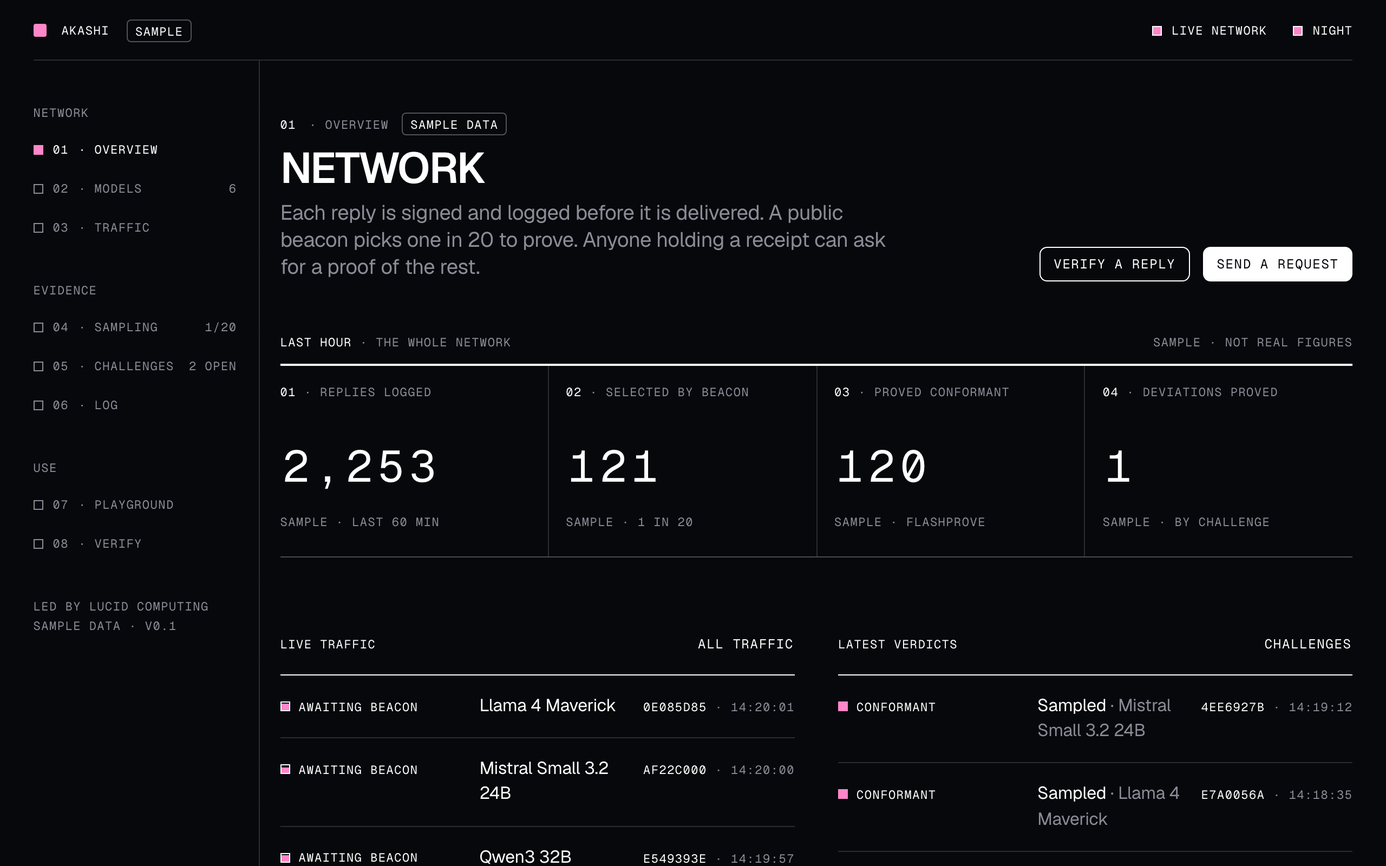
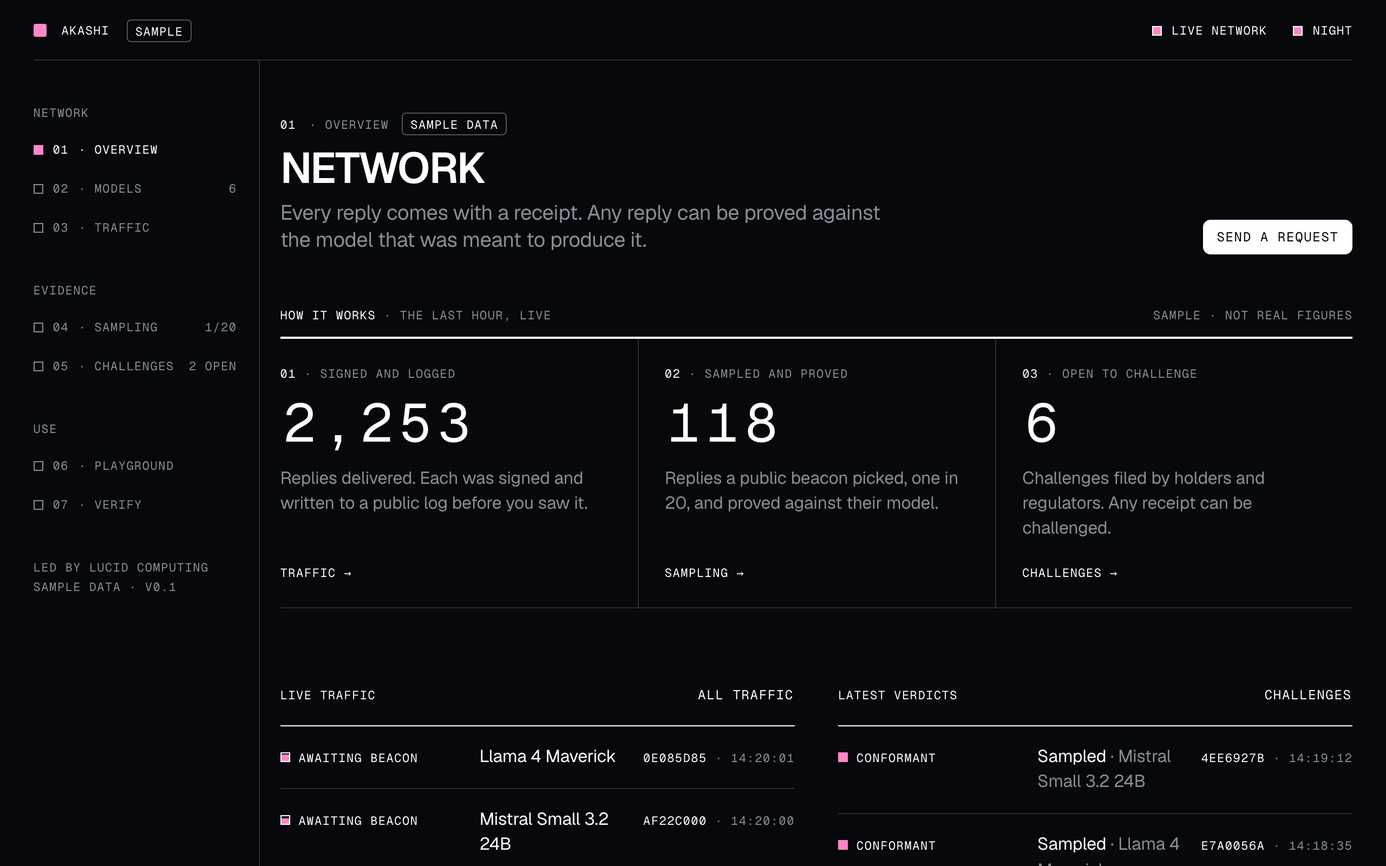
Refine the web preview: one story, fewer screens, less noise (#110)
The overview now tells how it works in three live steps (signed and
logged, sampled and proved, open to challenge), each linking to the
screen that explains it, with live traffic and verdicts below. The
separate log screen is folded into one live line on Traffic. Traffic
drops to five columns and 30 rows at a time, the request record keeps
four fields, sampling keeps three facts and recomputes the latest
selected reply, and Verify opens with a bundle ready. The README
screenshots are retaken to match.

diff --git a/web/app/index.html b/web/app/index.html
@@ -44,34 +44,32 @@
       <ul>
         <li><a href="#sampling" data-route="sampling"><i class="sq" aria-hidden="true"></i><b>04</b> · Sampling<span class="n">1/20</span></a></li>
         <li><a href="#challenges" data-route="challenges"><i class="sq" aria-hidden="true"></i><b>05</b> · Challenges<span class="n" id="nav-open"></span></a></li>
-        <li><a href="#log" data-route="log"><i class="sq" aria-hidden="true"></i><b>06</b> · Log</a></li>
       </ul>
       <h2>Use</h2>
       <ul>
-        <li><a href="#playground" data-route="playground"><i class="sq" aria-hidden="true"></i><b>07</b> · Playground</a></li>
-        <li><a href="#verify" data-route="verify"><i class="sq" aria-hidden="true"></i><b>08</b> · Verify</a></li>
+        <li><a href="#playground" data-route="playground"><i class="sq" aria-hidden="true"></i><b>06</b> · Playground</a></li>
+        <li><a href="#verify" data-route="verify"><i class="sq" aria-hidden="true"></i><b>07</b> · Verify</a></li>
       </ul>
       <p class="app-foot"><span class="led-by">Led by <b>Lucid Computing</b></span>Sample data · v0.1</p>
     </nav>
 
     <main class="app-main" id="main" tabindex="-1">
 
-      <!-- 01 Overview -->
+      <!-- 01 Overview: the mechanism in three steps, each with its live number, then what is happening now -->
       <section data-screen="overview" aria-labelledby="t-overview" hidden>
         <header class="screen-head">
           <p class="mono"><b>01</b> · Overview <span class="tag">Sample data</span><span class="state" data-state="pending" data-loading hidden>Loading</span></p>
           <h1 class="tt" id="t-overview">Network</h1>
-          <p class="sent">Each reply is signed and logged before it is delivered. A public beacon picks one in 20 to prove. Anyone holding a receipt can ask for a proof of the rest.</p>
-          <div class="actions"><a class="btn small" href="#verify">Verify a reply</a><a class="btn small solid" href="#playground">Send a request</a></div>
+          <p class="sent">Every reply comes with a receipt. Any reply can be proved against the model that was meant to produce it.</p>
+          <div class="actions"><a class="btn small solid" href="#playground">Send a request</a></div>
         </header>
         <div class="block">
-          <div class="block-head"><p class="mono"><b>Last hour</b> · the whole network</p><p class="mono">Sample · not real figures</p></div>
-          <div class="facts">
-            <div class="keyfact"><p class="mono"><b>01</b> · Replies logged</p><p class="val" data-value data-k="logged">0</p><p class="mono">Sample · last 60 min</p></div>
-            <div class="keyfact"><p class="mono"><b>02</b> · Selected by beacon</p><p class="val" data-value data-k="selected">0</p><p class="mono">Sample · 1 in 20</p></div>
-            <div class="keyfact"><p class="mono"><b>03</b> · Proved conformant</p><p class="val" data-value data-k="proved">0</p><p class="mono">Sample · FlashProve</p></div>
-            <div class="keyfact"><p class="mono"><b>04</b> · Deviations proved</p><p class="val" data-value data-k="deviations">0</p><p class="mono">Sample · by challenge</p></div>
-          </div>
+          <div class="block-head"><h2 class="mono"><b>How it works</b> · the last hour, live</h2><p class="mono">Sample · not real figures</p></div>
+          <ol class="steps">
+            <li><a href="#traffic"><p class="mono"><b>01</b> · Signed and logged</p><p class="val" data-value data-k="logged">0</p><p class="w">Replies delivered. Each was signed and written to a public log before you saw it.</p><span class="mono go">Traffic <span aria-hidden="true">&#8594;</span></span></a></li>
+            <li><a href="#sampling"><p class="mono"><b>02</b> · Sampled and proved</p><p class="val" data-value data-k="proved">0</p><p class="w">Replies a public beacon picked, one in 20, and proved against their model.</p><span class="mono go">Sampling <span aria-hidden="true">&#8594;</span></span></a></li>
+            <li><a href="#challenges"><p class="mono"><b>03</b> · Open to challenge</p><p class="val" data-value data-k="challenged">0</p><p class="w">Challenges filed by holders and regulators. Any receipt can be challenged.</p><span class="mono go">Challenges <span aria-hidden="true">&#8594;</span></span></a></li>
+          </ol>
         </div>
         <div class="blocks two">
           <div class="block">
@@ -82,11 +80,6 @@
             <div class="block-head"><h2 class="mono"><b>Latest verdicts</b></h2><a class="btn quiet small" href="#challenges">Challenges</a></div>
             <ul class="rows" id="ov-verdicts"></ul>
           </div>
-        </div>
-        <div class="block">
-          <div class="block-head"><h2 class="mono"><b>Models</b> · by traffic</h2><a class="btn quiet small" href="#models">All models</a></div>
-          <div class="scroll-x"><table class="record rows-link" id="ov-models"><caption class="vh">Models by traffic, sample data</caption>
-            <thead><tr><th scope="col">Model</th><th scope="col" class="ak-r">Replies</th><th scope="col" class="ak-r wide-only">Proved</th><th scope="col">Record</th></tr></thead><tbody></tbody></table></div>
         </div>
       </section>
 
@@ -135,7 +128,8 @@
         <header class="screen-head">
           <p class="mono"><b>03</b> · Traffic <span class="tag">Sample data</span></p>
           <h1 class="tt" id="t-traffic">Traffic</h1>
-          <p class="sent">Every reply the network delivered, as the log records it. Prompts and replies are never public: only their commitments are.</p>
+          <p class="sent">Every reply the network delivered, as the public log records it. Prompts and replies stay private: only their commitments are public.</p>
+          <p class="mono log-line"><i class="sq" aria-hidden="true"></i><b>Log</b> · <span id="log-size">0</span> leaves · head signed <span id="log-head">00:00:00</span> UTC · 3 of 3 monitors agree</p>
         </header>
         <div class="block">
           <div class="toolbar">
@@ -153,8 +147,8 @@
             <input class="input small search" id="t-q" type="search" placeholder="Request, model or operator" autocomplete="off" spellcheck="false">
           </div>
           <div class="scroll-x"><table class="record rows-link" id="traffic-t"><caption class="vh">Traffic, sample data</caption>
-            <thead><tr><th scope="col">Request</th><th scope="col">Model</th><th scope="col" class="wide-only">Operator</th><th scope="col" class="ak-r">Tokens</th><th scope="col" class="ak-r">Delivered, UTC</th><th scope="col" class="ak-r wide-only">Beacon round</th><th scope="col">State</th></tr></thead><tbody></tbody></table></div>
-          <div class="ak-more"><button class="btn small" type="button" id="t-more">Show 60 more</button></div>
+            <thead><tr><th scope="col">Request</th><th scope="col">Model</th><th scope="col" class="wide-only">Operator</th><th scope="col" class="ak-r">Delivered, UTC</th><th scope="col">State</th></tr></thead><tbody></tbody></table></div>
+          <div class="ak-more"><button class="btn small" type="button" id="t-more">Show more</button></div>
         </div>
       </section>
 
@@ -189,14 +183,13 @@
         <header class="screen-head">
           <p class="mono"><b>04</b> · Sampling <span class="tag">Sample data</span></p>
           <h1 class="tt" id="t-sampling">Sampling</h1>
-          <p class="sent">A receipt fixes a beacon round that has not happened yet. When the round is published, anyone can recompute which replies it selected. The operator could not know in advance.</p>
+          <p class="sent">Each receipt names a beacon round that has not happened yet. When it does, anyone can recompute which replies it picked. The operator cannot know in advance.</p>
         </header>
         <div class="block">
-          <div class="facts">
+          <div class="facts" style="--facts: 3">
             <div class="keyfact"><p class="mono"><b>01</b> · Rate</p><p class="val">1/20</p><p class="mono">Descriptor · live rate</p></div>
-            <div class="keyfact"><p class="mono"><b>02</b> · Replies decided</p><p class="val" data-k="decided">0</p><p class="mono">Sample · last 60 min</p></div>
-            <div class="keyfact"><p class="mono"><b>03</b> · Selected</p><p class="val" data-k="selected">0</p><p class="mono" data-k="share">Sample</p></div>
-            <div class="keyfact"><p class="mono"><b>04</b> · Proved</p><p class="val" data-k="provedOf">0</p><p class="mono">Sample · of selected</p></div>
+            <div class="keyfact"><p class="mono"><b>02</b> · Selected</p><p class="val" data-k="selected">0</p><p class="mono" data-k="share">Sample</p></div>
+            <div class="keyfact"><p class="mono"><b>03</b> · Proved</p><p class="val" data-k="provedOf">0</p><p class="mono">Sample · of selected</p></div>
           </div>
         </div>
         <div class="block">
@@ -207,23 +200,16 @@
           </figure>
         </div>
         <div class="block">
-          <div class="block-head"><h2 class="mono"><b>Recompute it</b> · the latest decided reply</h2><a class="btn quiet small" id="rc-open" href="#traffic">Open the request</a></div>
+          <div class="block-head"><h2 class="mono"><b>Recompute it</b> · the latest selected reply</h2><a class="btn quiet small" id="rc-open" href="#traffic">Open the request</a></div>
           <ol class="receipt" id="recompute"></ol>
         </div>
-        <div class="blocks two">
-          <div class="block">
-            <div class="block-head"><h2 class="mono"><b>By minute</b></h2><p class="mono">Sample · UTC</p></div>
-            <div class="scroll-x"><table class="record keep" id="windows"><caption class="vh">Selection by minute, sample data</caption>
-              <thead><tr><th scope="col">Minute</th><th scope="col" class="ak-r">Replies</th><th scope="col" class="ak-r">Selected</th><th scope="col" class="ak-r">Proved</th></tr></thead><tbody></tbody></table></div>
-          </div>
-          <div class="block">
-            <div class="block-head"><h2 class="mono"><b>What the rate buys</b></h2><p class="mono">Computed from the sample</p></div>
+        <div class="block">
+          <div class="block-head"><h2 class="mono"><b>What one in 20 buys</b></h2><p class="mono">Computed from the rate</p></div>
             <div class="ak-odds">
               <p class="sent" id="odds-sent"></p>
               <p class="val" id="odds-val">0%</p>
               <label class="ak-range"><span class="mono">Replies an operator changes</span><input type="range" id="odds-n" min="1" max="200" value="20" aria-describedby="odds-sent"><b class="mono" id="odds-n-v">20</b></label>
             </div>
-          </div>
         </div>
       </section>
 
@@ -336,36 +322,11 @@
         </div>
       </section>
 
-      <!-- 06 Log -->
-      <section data-screen="log" aria-labelledby="t-log" hidden>
-        <header class="screen-head">
-          <p class="mono"><b>06</b> · Log <span class="tag">Sample data</span></p>
-          <h1 class="tt" id="t-log">The log</h1>
-          <p class="sent">Every reply is a leaf before it is delivered. Monitors check that each signed head extends the last, so no reply can be dropped or rewritten unseen.</p>
-        </header>
-        <div class="block">
-          <div class="facts">
-            <div class="keyfact"><p class="mono"><b>01</b> · Tree size</p><p class="val num" data-k="size">0</p><p class="mono">Sample · leaves</p></div>
-            <div class="keyfact"><p class="mono"><b>02</b> · Latest head</p><p class="val num" data-k="age">0 s</p><p class="mono">Sample · age</p></div>
-            <div class="keyfact"><p class="mono"><b>03</b> · Monitors</p><p class="val">3/3</p><p class="mono">Sample · agree</p></div>
-            <div class="keyfact"><p class="mono"><b>04</b> · Log key</p><p class="val">LOG 1</p><p class="mono">Sample · Ed25519</p></div>
-          </div>
-        </div>
-        <div class="block">
-          <div class="block-head"><h2 class="mono"><b>Signed tree heads</b></h2><p class="mono">One a minute and after each write</p></div>
-          <div class="scroll-x"><table class="record" id="sth-t"><caption class="vh">Signed tree heads, sample data</caption>
-            <thead><tr><th scope="col" class="ak-r">Tree size</th><th scope="col">Root hash</th><th scope="col" class="ak-r">Signed, UTC</th><th scope="col" class="wide-only">Signature</th><th scope="col">Monitors</th></tr></thead><tbody></tbody></table></div>
-        </div>
-        <div class="block">
-          <div class="block-head"><h2 class="mono"><b>Monitors</b> · run by others</h2></div>
-          <ul class="rows" id="monitors"></ul>
-        </div>
-      </section>
 
-      <!-- 07 Playground -->
+      <!-- 06 Playground -->
       <section data-screen="playground" aria-labelledby="t-playground" hidden>
         <header class="screen-head">
-          <p class="mono"><b>07</b> · Playground <span class="tag">Sample data</span></p>
+          <p class="mono"><b>06</b> · Playground <span class="tag">Sample data</span></p>
           <h1 class="tt" id="t-playground">Playground</h1>
           <p class="sent">Send a chat as you would to any OpenAI-compatible API. The reply comes back with a receipt you hold. In this preview no model runs: replies are sample text.</p>
         </header>
@@ -412,10 +373,10 @@
         </div>
       </section>
 
-      <!-- 08 Verify -->
+      <!-- 07 Verify -->
       <section data-screen="verify" aria-labelledby="t-verify" hidden>
         <header class="screen-head">
-          <p class="mono"><b>08</b> · Verify <span class="tag">Sample data</span></p>
+          <p class="mono"><b>07</b> · Verify <span class="tag">Sample data</span></p>
           <h1 class="tt" id="t-verify">Verify offline</h1>
           <p class="sent">Check a receipt and its proof on your own machine, without the model weights and without asking the operator. In this preview the checks are simulated.</p>
         </header>

diff --git a/web/app/akashi.js b/web/app/akashi.js
@@ -83,28 +83,16 @@
   const verdictRow = (v) => v.r
     ? `<li><a class="row" href="${v.c ? '#challenge/' + v.c.id : '#request/' + v.r.short}">${reqStateHTML(v.r)}<span class="row-t">${esc(v.how)} <span class="muted">· ${esc(shortModel(v.r.model))}</span></span><span class="mono"><b>${v.r.short}</b> · ${hms(v.t)}</span></a></li>`
     : `<li><a class="row" href="#challenge/${v.c.id}">${stateHTML('idle', 'Refused')}<span class="row-t">${esc(v.how)} <span class="muted">· invalid receipt</span></span><span class="mono"><b>${v.c.ref}</b> · ${hms(v.t)}</span></a></li>`;
-  function modelRecord(m, t = S.now()) {
-    if (m.rebuilding) return stateHTML('pending', 'Rebuilding');
-    const dev = S.requests.some((r) => r.model === m.id && r.at <= t && S.stateOf(r, t) === 'deviation');
-    return dev ? stateHTML('failed', 'Deviation proved') : stateHTML('verified', 'All conformant');
-  }
   function overview(screen, fresh) {
-    const t = S.now(), st = hourStats(t);
-    const vals = [N(st.logged), N(st.selected), N(st.proved), N(st.deviations)];
+    const t = S.now(), st = hourStats(t), chl = S.challenges.filter((c) => c.at <= t && c.at > t - HOUR).length;
+    const vals = [N(st.logged), N(st.selProved), N(chl)];
     if (!loaded.has('overview')) {
       loaded.add('overview');
       const l = App.loading(screen); setTimeout(() => l.done(vals), 500);
-    } else ['logged', 'selected', 'proved', 'deviations'].forEach((k, i) => setVal(screen, k, vals[i]));
-    const live = visible(t).slice(-6).reverse();
-    $('#ov-live').innerHTML = live.map(liveRow).join('');
+    } else ['logged', 'proved', 'challenged'].forEach((k, i) => setVal(screen, k, vals[i]));
+    $('#ov-live').innerHTML = visible(t).slice(-5).reverse().map(liveRow).join('');
     if (fresh) $$('#ov-live .row .mono b').slice(0, fresh).forEach((el) => T.cipherText(el, el.textContent, { out: false }));
-    $('#ov-verdicts').innerHTML = verdicts(t).slice(0, 6).map(verdictRow).join('');
-    $('#ov-models tbody').innerHTML = S.MODELS.filter((m) => !m.rebuilding).map((m) => {
-      const rs = S.requests.filter((r) => r.model === m.id && r.at <= t && r.at > t - HOUR);
-      return `<tr data-href="#model/${m.id}"><th scope="row"><a href="#model/${m.id}">${esc(m.name)}</a></th>
-        <td class="n" data-label="Replies">${N(rs.length)}</td><td class="n wide-only" data-label="Proved">${N(rs.filter((r) => S.stateOf(r, t) === 'conformant').length)}</td>
-        <td class="s" data-label="Record">${modelRecord(m, t)}</td></tr>`;
-    }).join('');
+    $('#ov-verdicts').innerHTML = verdicts(t).slice(0, 5).map(verdictRow).join('');
   }
 
   /* ---------- 02 models ---------- */
@@ -160,7 +148,7 @@
   document.getElementById('model-copy').addEventListener('click', (e) => App.copy($('#model-code').textContent, e.currentTarget));
 
   /* ---------- 03 traffic ---------- */
-  const tStep = matchMedia('(max-width: 700px)').matches ? 20 : 60;   // stacked rows on a phone: fewer at a time
+  const tStep = matchMedia('(max-width: 700px)').matches ? 15 : 30;   // stacked rows on a phone: fewer at a time
   let tFilter = 'all', tQuery = '', tLimit = tStep;
   const tMatch = (r) => {
     const s = S.stateOf(r);
@@ -174,20 +162,24 @@
     <th scope="row"><a href="#request/${r.short}">${r.short}</a></th>
     <td class="what" data-label="Model">${esc(shortModel(r.model))}</td>
     <td class="v wide-only" data-label="Operator">${S.op(r.op).name.replace('Operator ', 'OP ')}</td>
-    <td class="n" data-label="Tokens">${N(r.pt + r.rt)}</td>
     <td class="n" data-label="Delivered, UTC">${hms(r.at)}</td>
-    <td class="n wide-only" data-label="Beacon round">${N(r.round)}</td>
     <td class="s">${reqStateHTML(r)}</td></tr>`;
   function traffic(screen, modelId) {
     if (modelId && S.model(modelId)) { tQuery = modelId; $('#t-q').value = modelId; }
     const all = visible().filter(tMatch).reverse(), list = all.slice(0, tLimit);
     $('#traffic-t tbody').innerHTML = list.length ? list.map((r) => trafficRow(r)).join('')
-      : `<tr><td class="none" colspan="7">No reply matches. <button class="btn quiet small" type="button" id="t-clear">Show all traffic</button></td></tr>`;
+      : `<tr><td class="none" colspan="5">No reply matches. <button class="btn quiet small" type="button" id="t-clear">Show all traffic</button></td></tr>`;
     $('#t-count').textContent = `${N(list.length)} of ${N(all.length)} · sample`;
     $('#t-more').hidden = all.length <= tLimit;
+    logLine();
     const clear = $('#t-clear'); if (clear) clear.onclick = () => { tQuery = ''; $('#t-q').value = ''; setTFilter('all'); };
   }
+  function logLine() {
+    const size = $('#log-size'), head = $('#log-head'); if (!size) return;
+    size.textContent = N(S.treeSize()); head.textContent = hms(Math.floor(S.now() / 60e3) * 60e3);
+  }
   function trafficTick(added) {
+    logLine();
     const rows = added.filter(tMatch).reverse();
     if (!rows.length) return;
     const tb = $('#traffic-t tbody'); if ($('td.none', tb)) { traffic(); return; }
@@ -263,13 +255,9 @@
     }
     $('#req-kv').innerHTML = [
       ['Request ID', `<span class="hash">${r.id}</span>`],
-      ['Served at', `<span class="hash">${iso(r.at)}</span>`],
-      ['Endpoint', `<span class="hash">${m.id}-int-${m.commitment.slice(0, 8)}</span>`],
       ['Leaf hash', copyHTML(r.lh, 'leaf hash')],
       ['Transcript commitment', copyHTML(digest(r, 'transcript'), 'transcript commitment')],
-      ['Params digest', `<span class="hash">${digest(r, 'params')}</span>`],
-      ['Promise signature', copyHTML(S.hex(128, 'sig ' + r.leaf), 'promise signature')],
-      ['Log key', '<span class="mono"><b>LOG KEY 1</b> · Ed25519</span>'],
+      ['Log signature', copyHTML(S.hex(128, 'sig ' + r.leaf), 'log signature')],
     ].map(([a, b]) => `<div><dt>${a}</dt><dd>${b}</dd></div>`).join('');
     wireCopy(screen);
   }
@@ -277,7 +265,7 @@
   /* ---------- 04 sampling ---------- */
   let lattice = null, oddsN = 20;
   const LEGEND = [['awaiting', 'Awaiting beacon'], ['unselected', 'Not selected'], ['proving', 'Proving'], ['challenged', 'Challenged'], ['conformant', 'Conformant'], ['deviation', 'Deviation']];
-  function latestDecided(t = S.now()) { for (let i = S.requests.length - 1; i >= 0; i--) { const r = S.requests[i]; if (r.at <= t && t >= S.roundTime(r.round)) return r; } return null; }
+  function latestDecided(t = S.now()) { for (let i = S.requests.length - 1; i >= 0; i--) { const r = S.requests[i]; if (r.at <= t && r.sel && t >= S.roundTime(r.round)) return r; } return null; }
   let rcShown = null;
   function recompute() {
     const r = latestDecided(); if (!r || r === rcShown) return; rcShown = r;
@@ -298,8 +286,8 @@
   }
   function sampling(screen) {
     const t = S.now(), st = hourStats(t);
-    setVal(screen, 'decided', N(st.decided)); setVal(screen, 'selected', N(st.selected));
-    setVal(screen, 'share', `Sample · ${pct(st.selected / Math.max(1, st.decided))} of decided`);
+    setVal(screen, 'selected', N(st.selected));
+    setVal(screen, 'share', `Sample · of ${N(st.decided)} decided`);
     setVal(screen, 'provedOf', `${N(st.selProved)}/${N(st.selected)}`);
     if (!lattice) {
       lattice = AkashiFigure.selection('#lattice', { cells: (n) => { const now = S.now(), v = []; for (let i = S.requests.length - 1; i >= 0 && v.length < n; i--) { const r = S.requests[i]; if (r.at <= now) v.push({ leaf: r.leaf, s: S.stateOf(r, now) }); } return v.reverse(); } });
@@ -310,12 +298,6 @@
     $('#lattice').setAttribute('aria-label', `A lattice of the latest logged replies, one cell each. Of the last 400, ${aw} await their beacon round and ${sel} were selected for proof. Sample data.`);
     $('#lat-caption').textContent = `Round ${N(S.roundAt(t))} · ${hms(t)} UTC`;
     recompute();
-    const mins = [];
-    for (let k = 1; k <= 8; k++) {
-      const a = Math.floor(t / 60e3) * 60e3 - k * 60e3, rs = S.requests.filter((r) => r.at >= a && r.at < a + 60e3);
-      mins.push(`<tr><th scope="row">${hm(a)}</th><td class="n">${N(rs.length)}</td><td class="n">${N(rs.filter((r) => r.sel).length)}</td><td class="n">${N(rs.filter((r) => S.stateOf(r, t) === 'conformant').length)}</td></tr>`);
-    }
-    $('#windows tbody').innerHTML = mins.join('');
     odds();
   }
   $('#odds-n').addEventListener('input', (e) => { oddsN = +e.target.value; odds(); });
@@ -436,23 +418,6 @@
     return `${s.toFixed(0)} S OF ABOUT ${(S.PROOF_MS / 1000).toFixed(0)} S`;
   }
 
-  /* ---------- 06 log ---------- */
-  let headsMinute = 0;
-  const MONITORS = [['Monitor A', 'run by an independent auditor'], ['Monitor B', 'run by a regulator'], ['Monitor C', 'run by a holder']];
-  function log(screen, force) {
-    const t = S.now();
-    setVal(screen, 'size', N(S.treeSize()));
-    setVal(screen, 'age', Math.floor((t % 60e3) / 1000) + ' s');
-    const minute = Math.floor(t / 60e3);
-    if (minute === headsMinute && !force) return;
-    headsMinute = minute;
-    const hs = S.heads(12);
-    $('#sth-t tbody').innerHTML = hs.map((h) => `<tr><th scope="row" class="n">${N(h.size)}</th><td class="v" data-label="Root hash"><span class="hash">${cut(h.root, 10, 6)}</span></td>
-      <td class="n" data-label="Signed, UTC">${hms(h.t)}</td><td class="v wide-only" data-label="Signature"><span class="hash">${cut(h.sig, 10, 6)}</span></td>
-      <td class="s">${stateHTML('verified', '3 of 3 agree')}</td></tr>`).join('');
-    $('#monitors').innerHTML = MONITORS.map(([n, w], i) => `<li><div class="row">${stateHTML('verified', 'Consistent')}<span class="row-t">${n} <span class="muted">· ${w} · sample</span></span><span class="mono"><b>${N(hs[0].size)}</b> · ${hms(hs[0].t + (i + 1) * 2100)}</span></div></li>`).join('');
-  }
-
   /* ---------- 07 playground ---------- */
   const PRESETS = [
     ['What is 7 + 5? Answer with the number only.', '12'],
@@ -555,6 +520,7 @@
   function verify(screen, id) {
     const r = id && S.find(id);
     if (r && r !== vReq) loadBundle(r);
+    else if (!vReq) $('#v-sample').click();
     else if (!$('#v-steps').children.length) resetChecks();
   }
   $('#v-sample').addEventListener('click', () => {
@@ -634,12 +600,12 @@
   /* ---------- start ---------- */
   const router = App.routes({
     overview: (s) => overview(s), models, model, traffic: (s, m) => traffic(s, m), request, sampling,
-    challenges, file, challenge, log: (s) => log(s, true), playground, verify,
+    challenges, file, challenge, playground, verify,
   }, {
     home: 'overview',
     parent: { model: 'models', request: 'traffic', file: 'challenges', challenge: 'challenges' },
     title: (name, args) => ({ overview: 'Network', models: 'Models', model: S.model(args[0]) ? S.model(args[0]).name : 'Model', traffic: 'Traffic', request: 'Request ' + (args[0] || ''),
-      sampling: 'Sampling', challenges: 'Challenges', file: 'File a challenge', challenge: 'Challenge ' + (args[0] || ''), log: 'Log', playground: 'Playground', verify: 'Verify' }[name]) + ' · Akashi · Sample',
+      sampling: 'Sampling', challenges: 'Challenges', file: 'File a challenge', challenge: 'Challenge ' + (args[0] || ''), playground: 'Playground', verify: 'Verify' }[name]) + ' · Akashi · Sample',
   });
   navCounts();
 
@@ -649,7 +615,6 @@
     else if (cur === 'traffic') trafficTick(added);
     else if (cur === 'sampling') sampling(scr);
     else if (cur === 'challenges') challenges(scr);
-    else if (cur === 'log') log(scr);
     else if (cur === 'request' && shownReq && S.stateOf(shownReq) !== shownReqState) request(scr, shownReq.short);
     else if (cur === 'challenge' && shownChl) {
       const g = S.stage(shownChl);

diff --git a/web/app/akashi.css b/web/app/akashi.css
@@ -60,3 +60,21 @@ pre.code { overflow-x: auto; }
 /* a column head over numbers: right aligned, in the head's own type */
 .record thead th.ak-r { text-align: right; }
 .ak-pair { align-items: start; }
+
+/* the overview: how it works, in three steps, each a live number and a way in */
+.steps { display: grid; grid-template-columns: minmax(0, 1fr); border-top: 2px solid var(--rule-strong); border-bottom: 1px solid var(--rule); }
+.steps > li + li { border-top: 1px solid var(--rule); }
+.steps a { display: grid; grid-template-rows: auto auto 1fr auto; gap: var(--space-4); height: 100%; padding: var(--space-5) var(--space-5) var(--space-5) 0; }
+.steps .val { font-size: clamp(34px, 5cqi, 64px); line-height: .9; }
+.steps .w { color: var(--fg-mist); max-width: 30ch; }
+.steps .go { color: var(--fg); transition: color var(--dur-quick); }
+.steps a:hover .go, .steps a:focus-visible .go { color: var(--signal); }
+@container main (min-width: 760px) {
+  .steps { grid-template-columns: repeat(3, minmax(0, 1fr)); }
+  .steps > li + li { border-top: 0; border-left: 1px solid var(--rule); }
+  .steps > li + li a { padding-left: var(--space-5); }
+  .steps a { min-height: 248px; }
+}
+
+/* the log, in one live line under the traffic head */
+.log-line .sq { --p: 1; }

diff --git a/web/README.md b/web/README.md
@@ -6,12 +6,11 @@ Open `app/index.html` in a browser. No build step, no server, no network access.
 
 | Screen | Address | What it shows |
 | --- | --- | --- |
-| Overview | `#overview` | The last hour across the network, live traffic, latest verdicts, models |
+| Overview | `#overview` | How it works in three live steps (logged, sampled and proved, challenged), then live traffic and verdicts |
 | Models | `#models`, `#model/<id>` | Each model's commitment, operators, record and an OpenAI-compatible call |
-| Traffic | `#traffic`, `#request/<id>` | Every logged reply, and one reply's receipt: model, log, beacon, selection, proof |
+| Traffic | `#traffic`, `#request/<id>` | Every logged reply with the log's live size, and one reply's receipt: model, log, beacon, selection, proof |
 | Sampling | `#sampling` | One in 20 selected by a public beacon, the selection lattice, a selection recomputed |
 | Challenges | `#challenges`, `#file`, `#challenge/<id>` | Holders, regulators and third parties asking for a proof, and each challenge's lifecycle |
-| Log | `#log` | Signed tree heads and the monitors that check them |
 | Playground | `#playground` | Send a chat, get a sample reply and a receipt you hold |
 | Verify | `#verify` | Offline checks of a bundle, including one with a changed bit |
 
